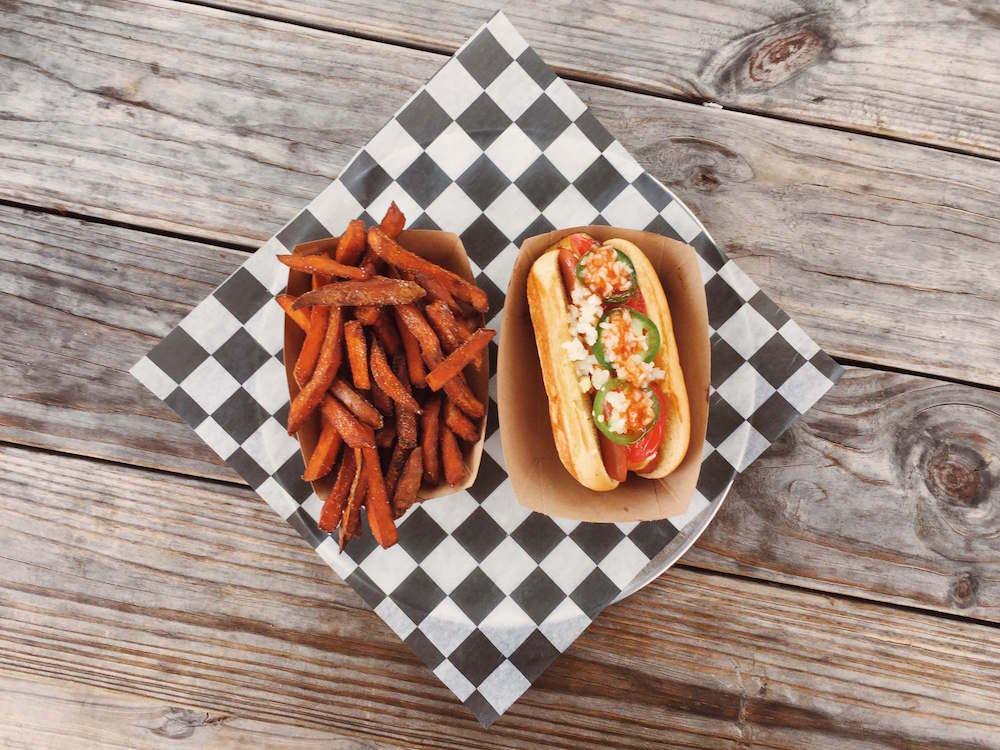
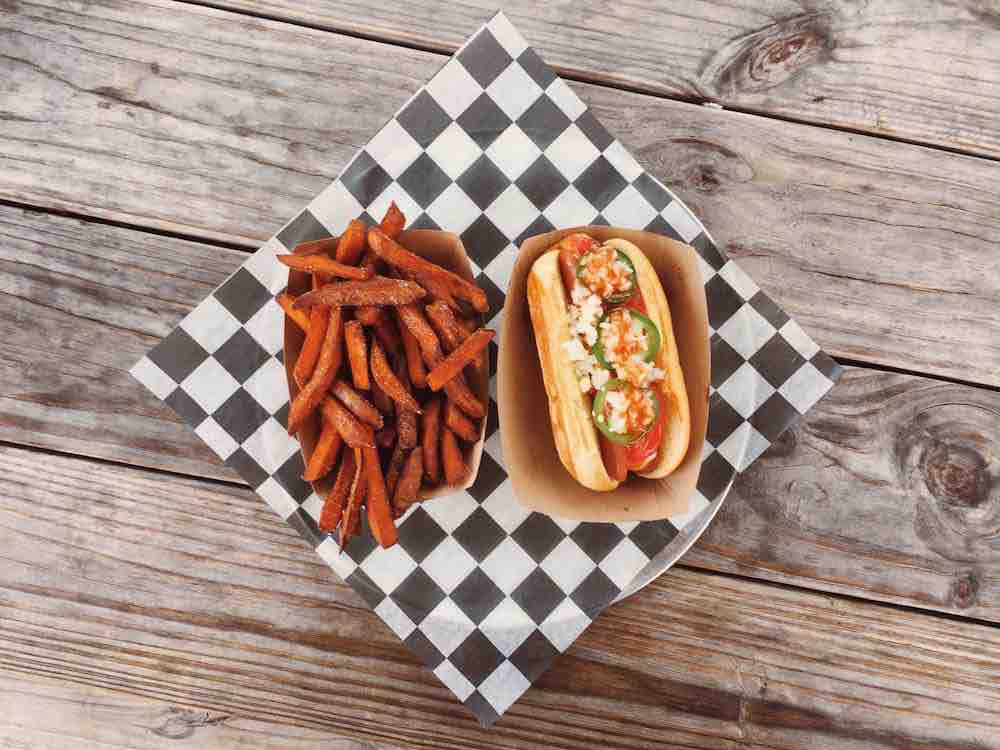
Compressed ioccasion imagesn images for faster load

diff --git a/www/js/controllers.js b/www/js/controllers.js
@@ -34,6 +34,52 @@ angular.module('datespot.controllers', ['ionic', 'datespot.userservices', 'dates
 
 
 
+
+// DIRECTIVE FOR SHRINKING HEADER ON SCROLL 
+// .directive('headerShrink', function($document) {
+//   var fadeAmt;
+
+//   var shrink = function(header, content, amt, max) {
+//     amt = Math.min(44, amt);
+//     fadeAmt = 1 - amt / 44;
+//     ionic.requestAnimationFrame(function() {
+//       header.style[ionic.CSS.TRANSFORM] = 'translate3d(0, -' + amt + 'px, 0)';
+//       for(var i = 0, j = header.children.length; i < j; i++) {
+//         header.children[i].style.opacity = fadeAmt;
+//       }
+//     });
+//   };
+
+//   return {
+//     restrict: 'A',
+//     link: function($scope, $element, $attr) {
+//       var starty = $scope.$eval($attr.headerShrink) || 0;
+//       var shrinkAmt;
+      
+//       var header = $document[0].body.querySelector('.bar-header');
+//       var headerHeight = header.offsetHeight;
+      
+//       $element.bind('scroll', function(e) {
+//         var scrollTop = null;
+//         if(e.detail){
+//           scrollTop = e.detail.scrollTop;
+//         }else if(e.target){
+//           scrollTop = e.target.scrollTop;
+//         }
+//         if(scrollTop > starty){
+//           // Start shrinking
+//           shrinkAmt = headerHeight - Math.max(0, (starty + headerHeight) - scrollTop);
+//           shrink(header, $element[0], shrinkAmt, headerHeight);
+//         } else {
+//           shrink(header, $element[0], 0, headerHeight);
+//         }
+//       });
+//     }
+//   }
+// })
+
+
+
 // CONTROLLER FOR THE SEARCH VIEW
 .controller('SearchCtrl', function($scope, User) {
   $scope.runFilter = function (bool) {  
@@ -193,19 +239,27 @@ angular.module('datespot.controllers', ['ionic', 'datespot.userservices', 'dates
       name: "First Date",
       id: 1,
       tag: "She said 'yes.' Choose a place that'll impress.",
-      url: "https://s3-us-west-1.amazonaws.com/datespot/occasions/firstdate2.jpg"
+      url: "img/firstdate.jpg"
+      // url: "https://s3-us-west-1.amazonaws.com/datespot/occasions/firstdate2.jpg"
   }, {
-      name: "Fancy a drink?",
-      id: 2,
-      tag: "Hip spots to grab a drink with a date or friend.",
-      url: "img/justdrinks2.jpg"
-  },
-     {
       name: "Dinner date",
-      id: 3,
+      id: 2,
       tag: "Suave restaurants, tasty treats and cheap eats.",
       url: "img/dinnerdate2.jpg"
   },
+     {
+      name: "Fancy a drink?",
+      id: 3,
+      tag: "Hip spots to grab a drink with a date or friend.",
+      url: "img/justdrinks.jpg"
+  },
+    {
+      name: "Cheap eats",
+      id: 4,
+      tag: "Something informal with friends in pubs, bars or clubs.",
+      url: "/img/cheapeats.jpg"
+    },
+
     {
       name: "Brunch or coffee",
       id: 4,
@@ -215,10 +269,10 @@ angular.module('datespot.controllers', ['ionic', 'datespot.userservices', 'dates
     },
 
     {
-      name: "Fun with friends",
-      id: 5,
+      name: "Fun in the sun",
+      id: 8,
       tag: "Something informal with friends in pubs, bars or clubs.",
-      url: "img/funwithfriends.jpg"
+      url: "/img/funinthesun.jpg"
     },
 
     {
@@ -227,24 +281,17 @@ angular.module('datespot.controllers', ['ionic', 'datespot.userservices', 'dates
       tag: "Something informal with friends in pubs, bars or clubs.",
       url: "img/letsgetweird.jpg"
     },
-
+    {
+      name: "Fun with friends",
+      id: 5,
+      tag: "Something informal with friends in pubs, bars or clubs.",
+      url: "img/funwithfriends.jpg"
+    },
     {
       name: "Go all out",
       id: 7,
       tag: "Something informal with friends in pubs, bars or clubs.",
       url: "https://s3-us-west-1.amazonaws.com/datespot/occasions/goallout.jpg"
-    },
-    {
-      name: "Fun in the sun",
-      id: 8,
-      tag: "Something informal with friends in pubs, bars or clubs.",
-      url: "/img/somethingsunny.jpg"
-    },
-    {
-      name: "Cheap eats",
-      id: 9,
-      tag: "Something informal with friends in pubs, bars or clubs.",
-      url: "/img/cheapeats.jpg"
     // },
     // {
     //   name: "Hen night",

diff --git a/www/css/style.css b/www/css/style.css
@@ -123,8 +123,8 @@
 }
 
 .occasionInfo {
-  height: 155px; 
-  line-height: 155px;
+  height: 175px; 
+  line-height: 175px;
   padding: 0px;
   text-align: center;
   background-size: cover;
@@ -148,7 +148,7 @@
   font-family: 'Varela Round';
   font-size: 30px;
   color: #fff;
-  text-shadow: 2px 2px #222;
+  text-shadow: 1px 1px #222;
 }
 
 .occasionTagline {
@@ -506,7 +506,11 @@ td-card img {
   -o-background-size: cover;
   height: 240px;
   width: 400px;
-  border: black;
+  -webkit-background-size: cover!important;
+  -webkit-background-size: cover;
+  -moz-background-size: cover;
+  -o-background-size: cover;
+  border: 1px solid #333;
 }
 
 .shortlistInfo:before {

diff --git a/www/css/loading.css b/www/css/loading.css
@@ -7,7 +7,7 @@
 }
 
 .loadingMessage {
-  font-size: 14px;
+  font-size: 15px;
   color: #f3f3f3;
    -webkit-box-ordinal-group: 1;
     -moz-box-ordinal-group: 1;
@@ -34,6 +34,11 @@
   text-align: center;
   color: #e74c3c;
   animation: beat 1s infinite;
+}
+
+.pixelheart {
+  width: 100px;
+  height: auto;
 }
 
 @keyframes beat {

diff --git a/www/templates/loading.html b/www/templates/loading.html
@@ -4,7 +4,8 @@
 
 		<!-- Animations for First Date and Go All Out occasions -->
 		<div class="heart">
-			<i class="icon ion-heart"></i>
+			<!-- <i class="icon ion-heart"></i> -->
+			<img src="img/pixelheart.png" class="pixelheart"></img>
 		</div>
 		<div class="loadingMessage">Seducing...</div>
 

diff --git a/www/templates/search.html b/www/templates/search.html
@@ -1,4 +1,4 @@
-<ion-view view-title="Search">
+<ion-view view-title="Search" header-shrink scroll-event-interval="5">
   <ion-nav-buttons side="left">
     <!-- <button class="button button-icon ion-navicon" 
       ng-href="#/settings">
